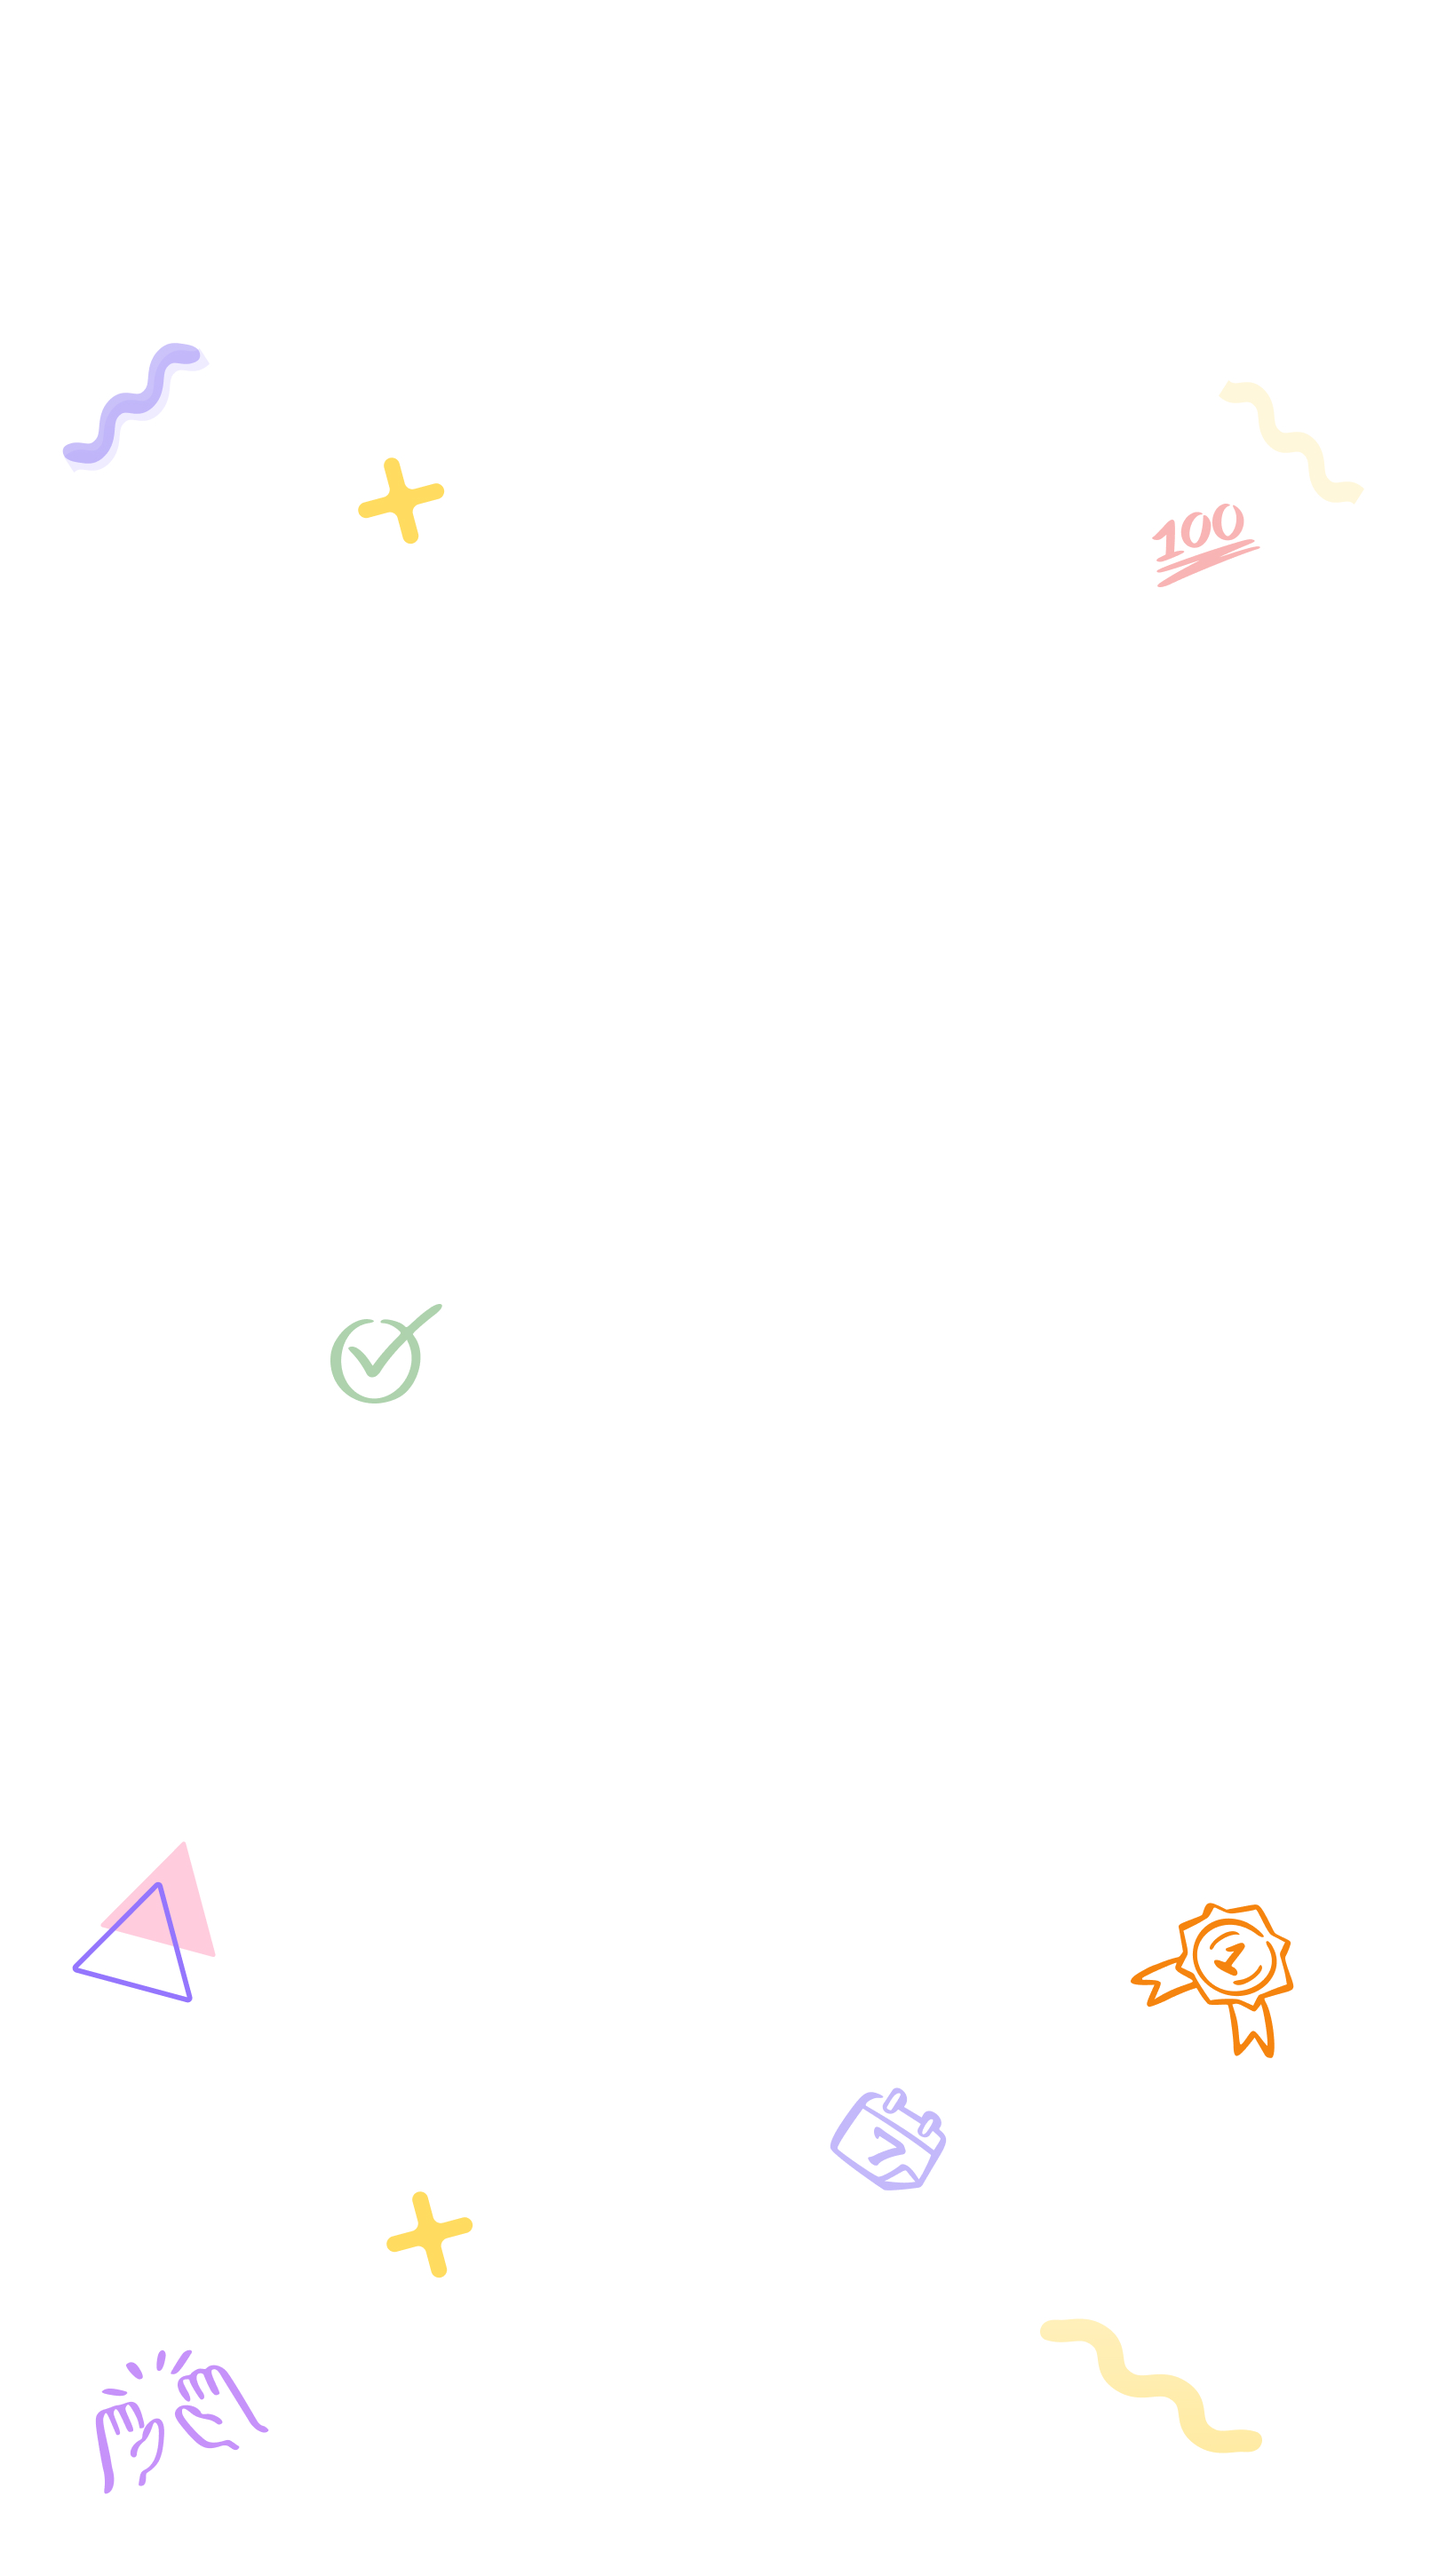
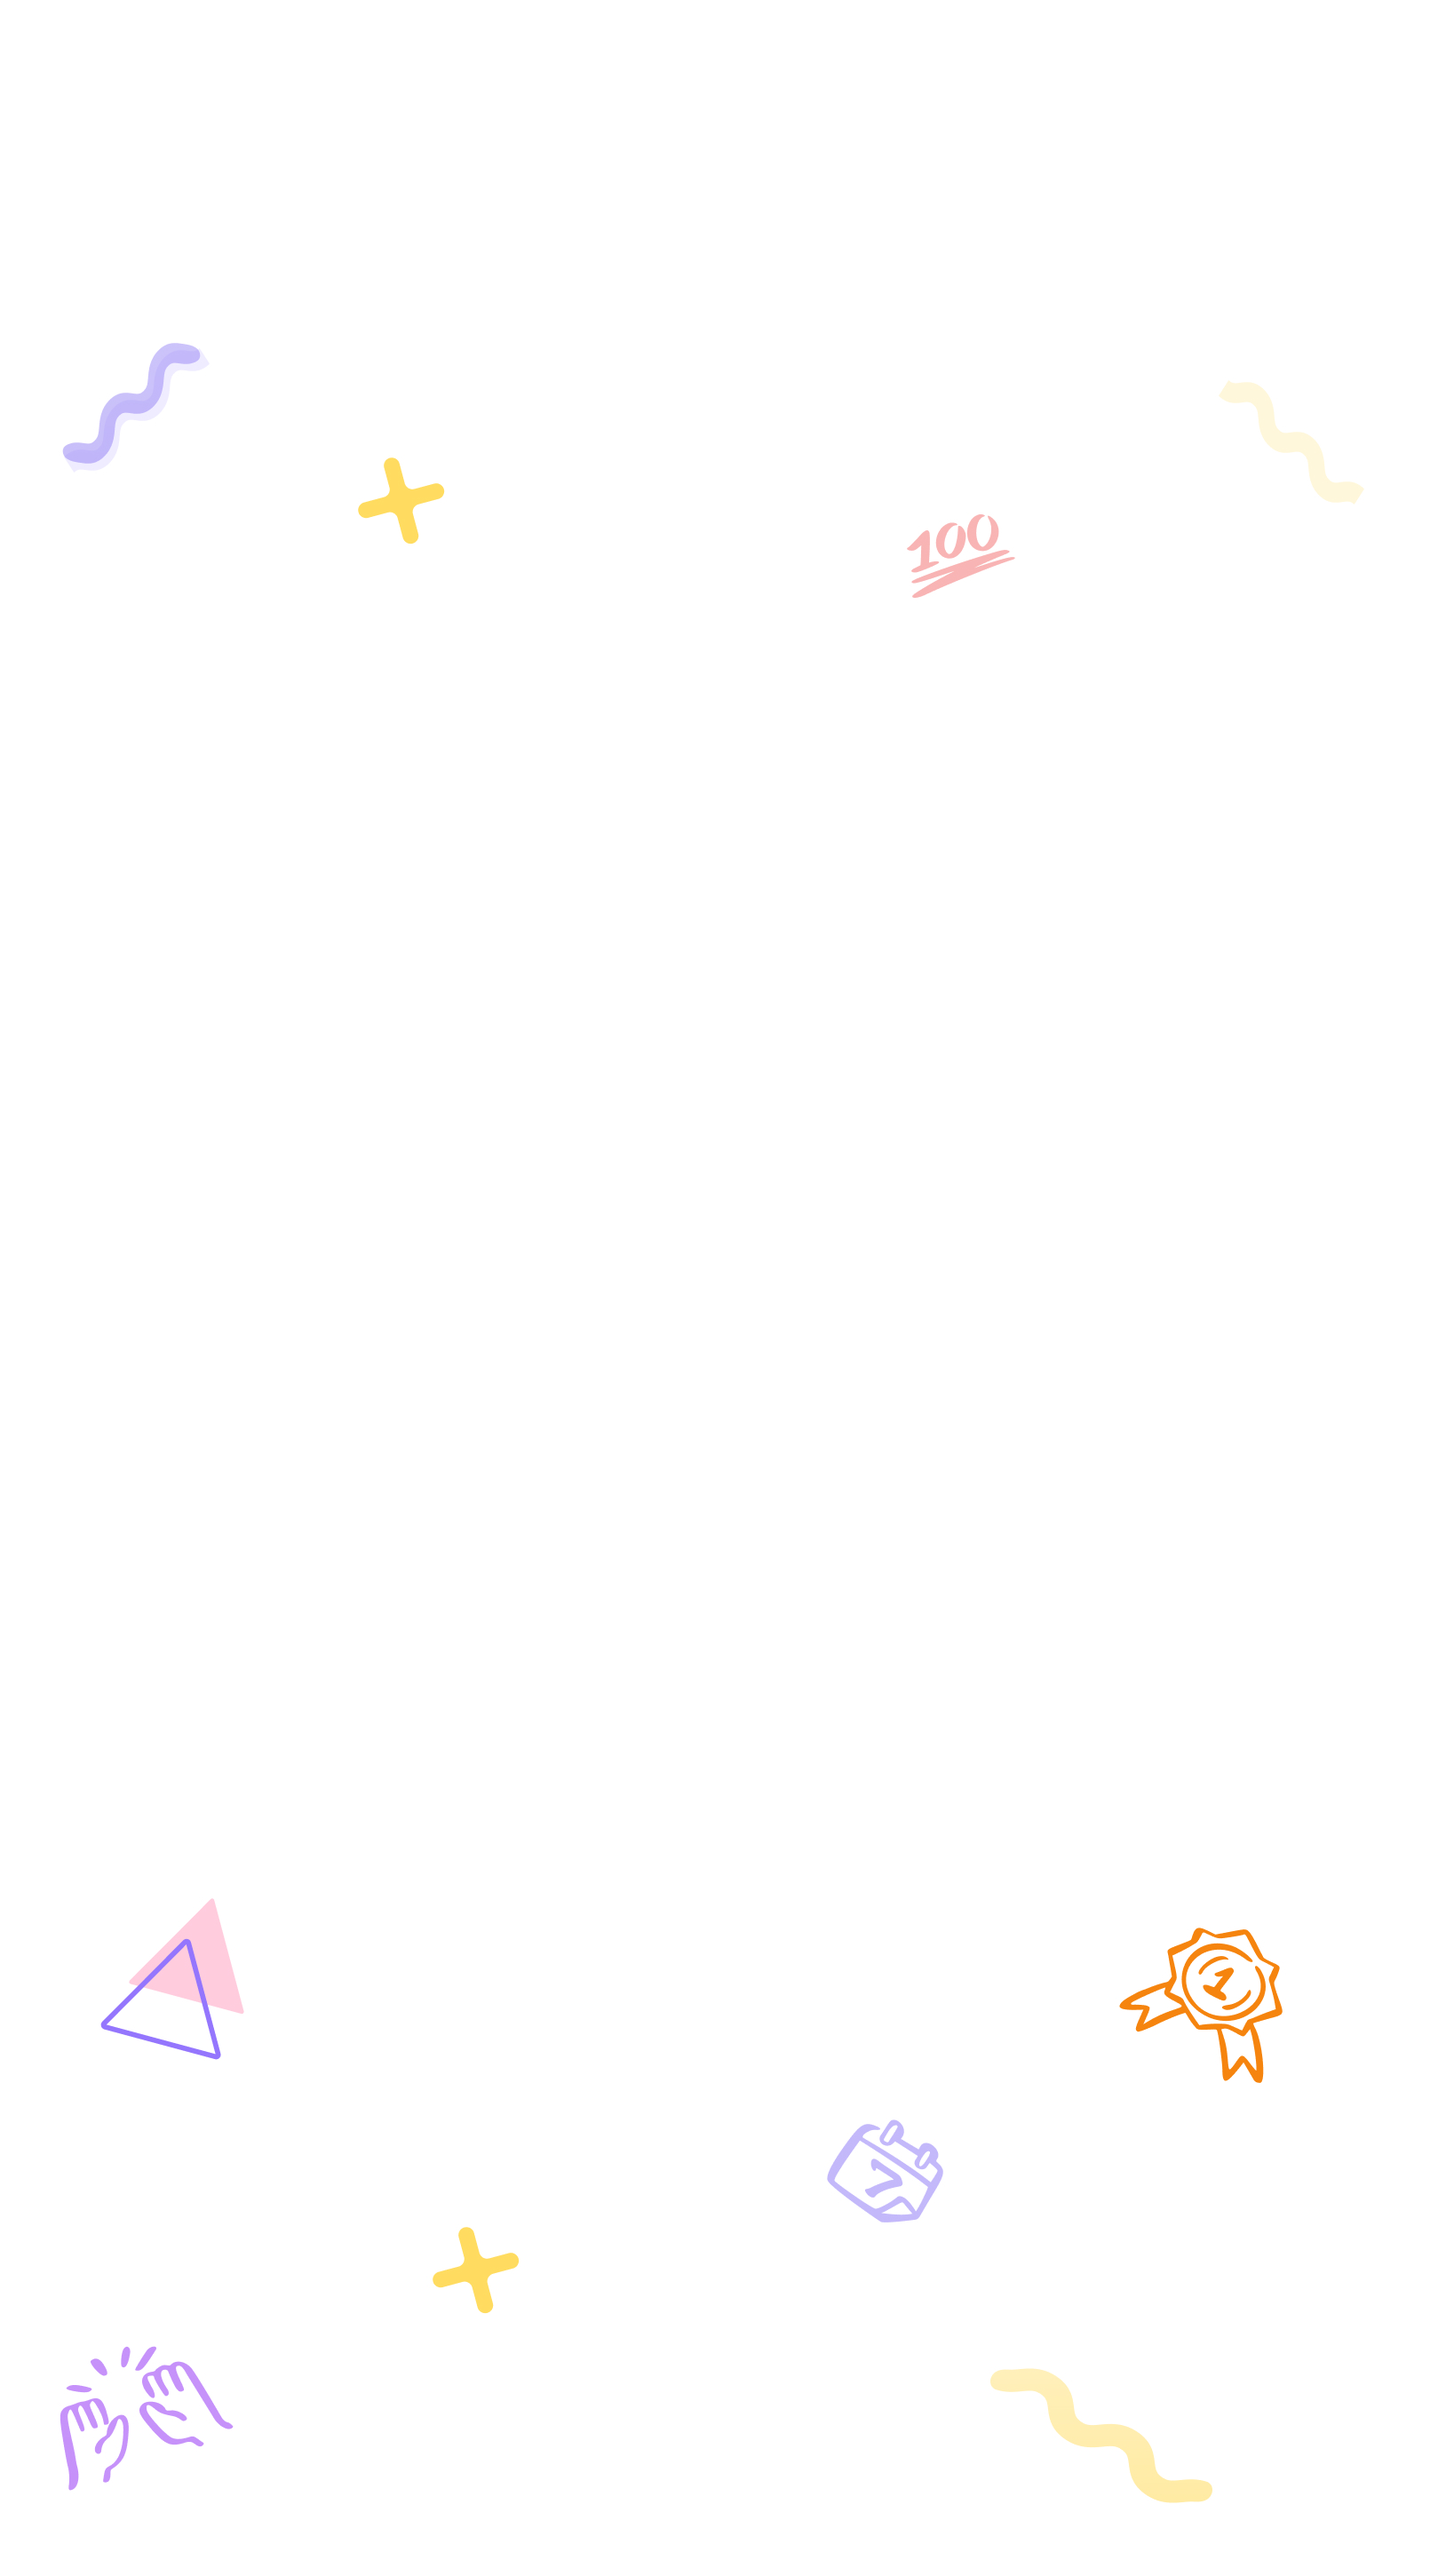
changed mob background

diff --git a/index.html b/index.html
@@ -14,6 +14,8 @@
       background-image: url('./assets/coming_soon_bg.jpg');
       background-position: center;
       background-size: cover;
+      background-repeat: no-repeat;
+  background-attachment: fixed;
     }
     header {
       border-bottom: 1px solid #e5e5e5;
@@ -22,18 +24,23 @@
     @media (max-width: 640px) {
     body {
         background-image: url('./assets/coming_soon_bg_mobile.jpg');
+        background-repeat: no-repeat;
+  background-attachment: fixed;
+    }
+    header {
+      border-bottom: 0px solid #e5e5e5;
     }
     }
   </style>
 </head>
-<body class="min-h-screen bg-white relative overflow-hidden flex flex-col items-center justify-center p-4">
+<body class="min-h-screen relative overflow-hidden flex flex-col items-center justify-center p-4">
 
   <!-- Header -->
   <header class="absolute top-0 left-0 w-full flex justify-between items-center p-4">
-    <img src="./assets/logo.png" alt="Goalmate Logo" class="h-10" />
+    <img src="./assets/logo.png" alt="Goalmate Logo" class="h-8 sm:h-10" />
     <button
       onclick="document.getElementById('contactForm').classList.remove('hidden')"
-      class="bg-orange-500 hover:bg-orange-600 text-white font-semibold px-5 py-2 rounded-2xl shadow-md"
+      class="bg-orange-500 hover:bg-orange-600 text-white font-semibold px-3 py-1 sm:px-5 sm:py-2 rounded-2xl shadow-md"
     >
       Contact Us
     </button>
